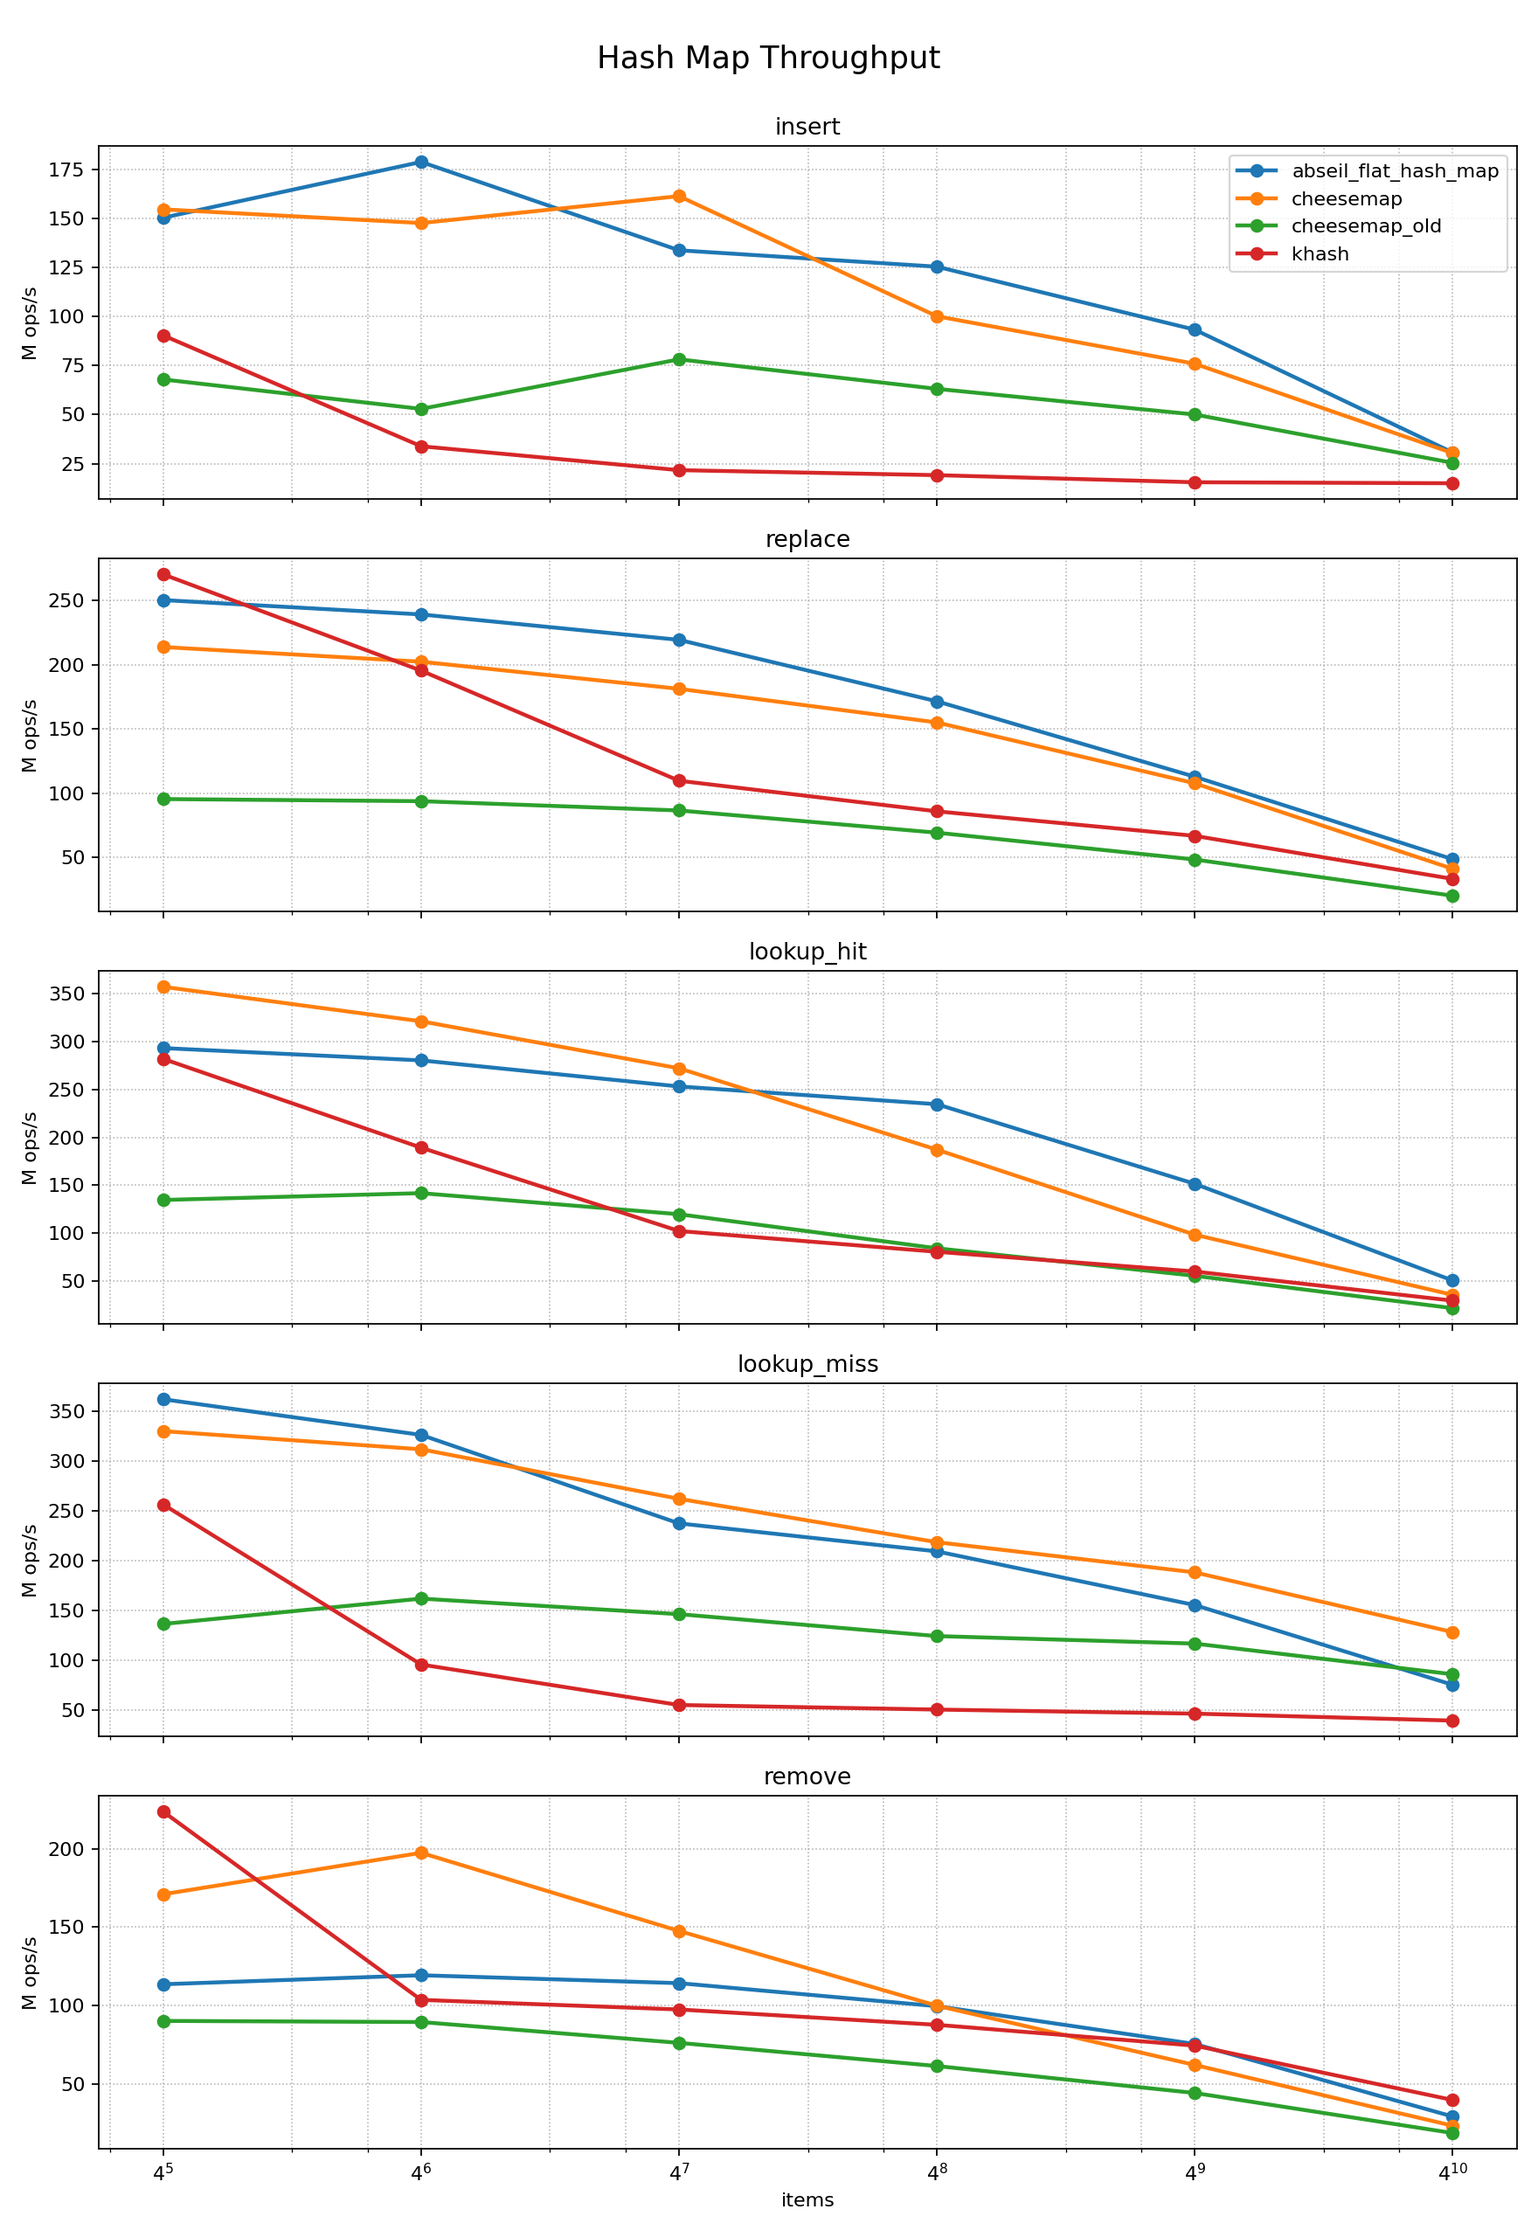
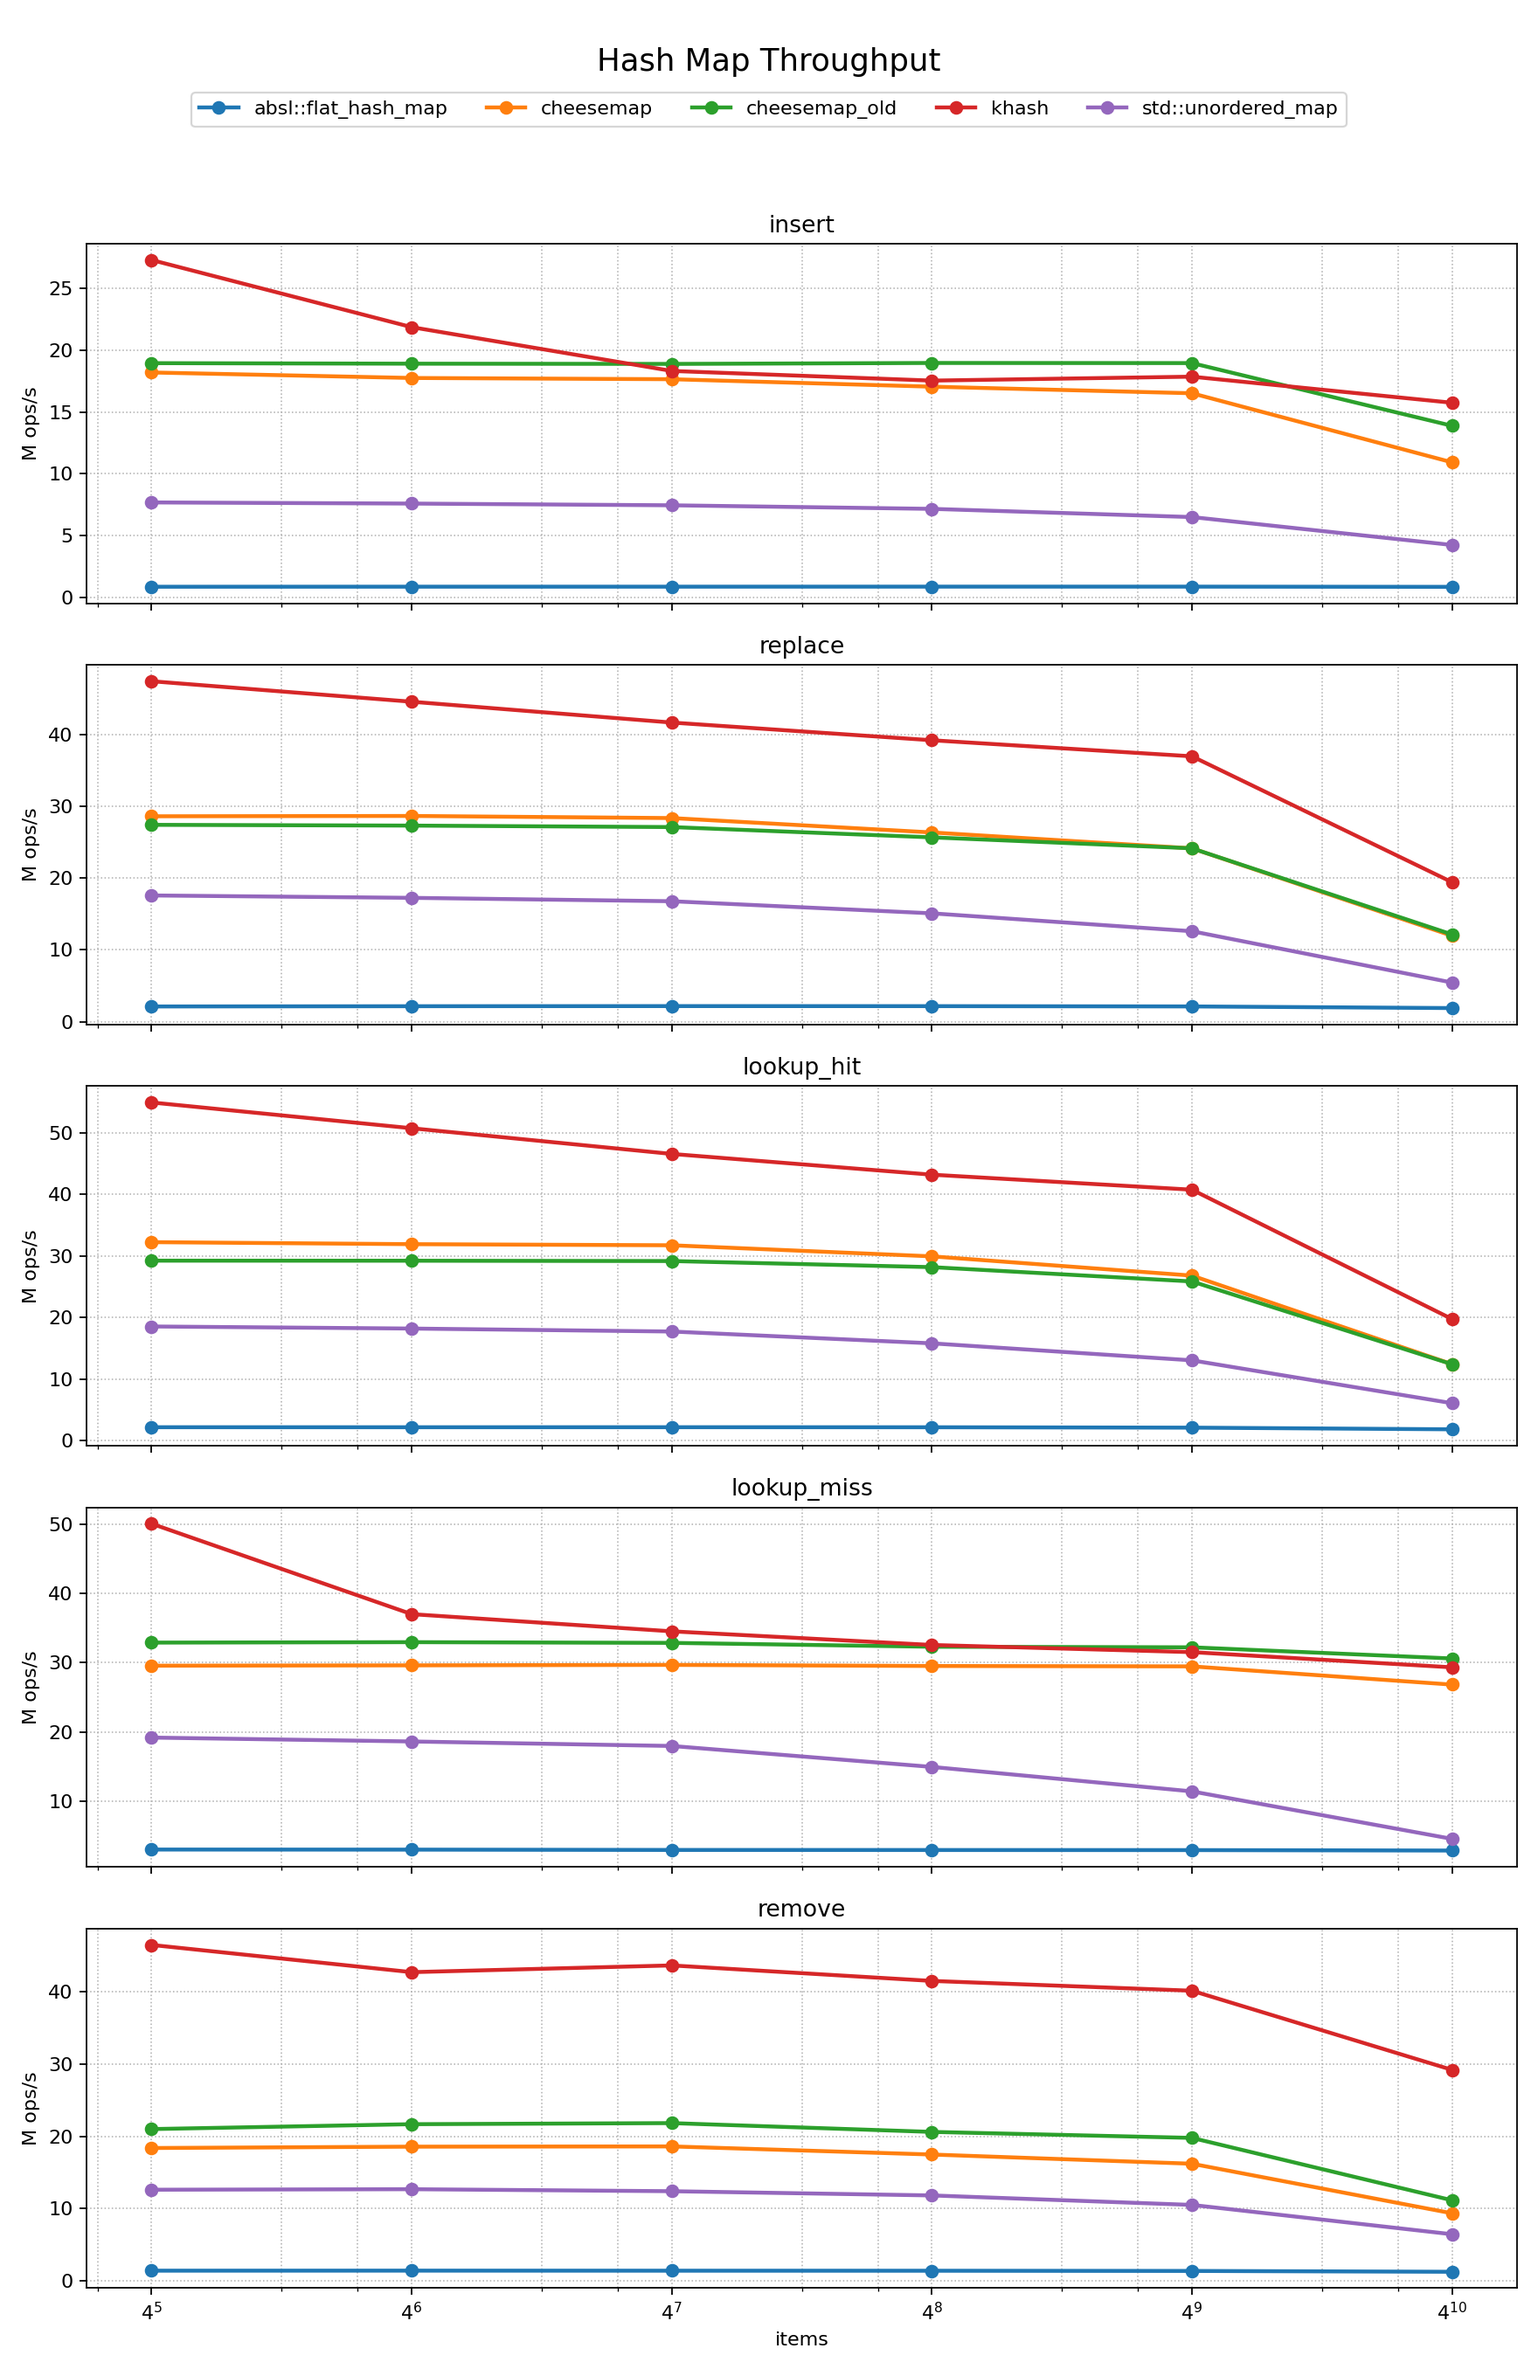
adds std::unordered_map

diff --git a/benches/plot.py b/benches/plot.py
@@ -14,8 +14,17 @@ BENCHES = [
     ("cheesemap", "cheesemap_bench"),
     ("cheesemap_old", "cheesemap_old_bench"),
     ("abseil", "abseil_bench"),
+    ("std::unordered_map", "std_unordered_map_bench"),
     ("khash", "khash_bench"),
 ]
+
+DISPLAY_NAMES = {
+    "abseil_flat_hash_map": "absl::flat_hash_map",
+    "cheesemap": "cheesemap",
+    "cheesemap_old": "cheesemap_old",
+    "khash": "khash",
+    "std_unordered_map": "std::unordered_map",
+}
 
 OPERATIONS = [
     "insert",
@@ -118,12 +127,12 @@ def plot_results(rows: list[dict], output: Path) -> None:
 
     for row in rows:
         operation = row["operation"]
-        implementation = row["implementation"]
+        implementation = DISPLAY_NAMES.get(row["implementation"], row["implementation"])
         size = row["size"]
         throughput = row["items_per_second"] / 1_000_000.0
         by_operation[operation].setdefault(implementation, []).append((size, throughput))
 
-    fig, axes = plt.subplots(len(OPERATIONS), 1, figsize=(11, 16), sharex=True)
+    fig, axes = plt.subplots(len(OPERATIONS), 1, figsize=(11, 17), sharex=True)
     fig.suptitle("Hash Map Throughput", fontsize=16)
 
     for ax, operation in zip(axes, OPERATIONS):
@@ -139,8 +148,9 @@ def plot_results(rows: list[dict], output: Path) -> None:
         ax.grid(True, which="both", linestyle=":", linewidth=0.7)
 
     axes[-1].set_xlabel("items")
-    axes[0].legend(loc="best")
-    fig.tight_layout(rect=(0, 0, 1, 0.98))
+    handles, labels = axes[0].get_legend_handles_labels()
+    fig.legend(handles, labels, loc="upper center", ncol=min(len(labels), 5), bbox_to_anchor=(0.5, 0.965))
+    fig.tight_layout(rect=(0, 0, 1, 0.94))
     fig.savefig(output, dpi=160)
     plt.close(fig)
 

diff --git a/benches/std_unordered_map_bench.cc b/benches/std_unordered_map_bench.cc
@@ -1,0 +1,61 @@
+#include "common.h"
+
+#include <unordered_map>
+
+namespace {
+
+struct Hasher {
+    std::size_t operator()(BenchKey key) const
+    {
+        return static_cast<std::size_t>(BenchHashKey(key));
+    }
+};
+
+class StdUnorderedMapAdapter {
+public:
+    void reserve(std::size_t size)
+    {
+        map_.reserve(size);
+    }
+
+    bool insert(BenchKey key, BenchValue value)
+    {
+        map_.insert_or_assign(key, value);
+        return true;
+    }
+
+    bool replace(BenchKey key, BenchValue value)
+    {
+        auto it = map_.find(key);
+        if (it == map_.end()) {
+            return false;
+        }
+        it->second = value;
+        return true;
+    }
+
+    bool lookup(BenchKey key, BenchValue& value) const
+    {
+        auto it = map_.find(key);
+        if (it == map_.end()) {
+            return false;
+        }
+        value = it->second;
+        return true;
+    }
+
+    bool remove(BenchKey key)
+    {
+        return map_.erase(key) != 0;
+    }
+
+private:
+    std::unordered_map<BenchKey, BenchValue, Hasher> map_;
+};
+
+const bool registered = [] {
+    RegisterBenchmarks<StdUnorderedMapAdapter>("std_unordered_map");
+    return true;
+}();
+
+} // namespace
